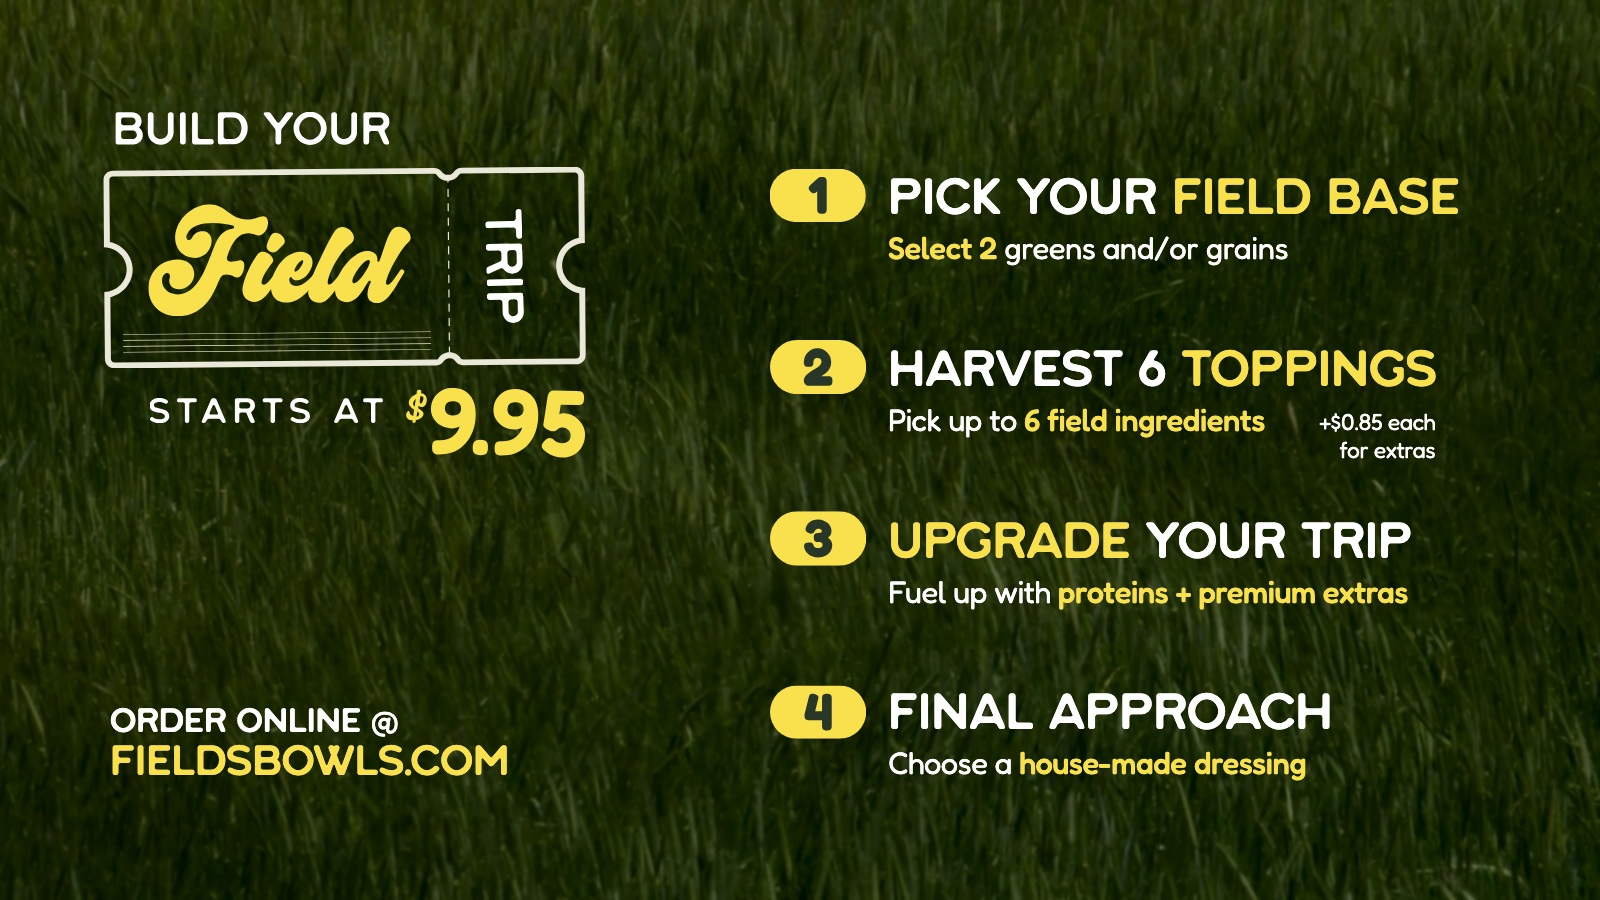
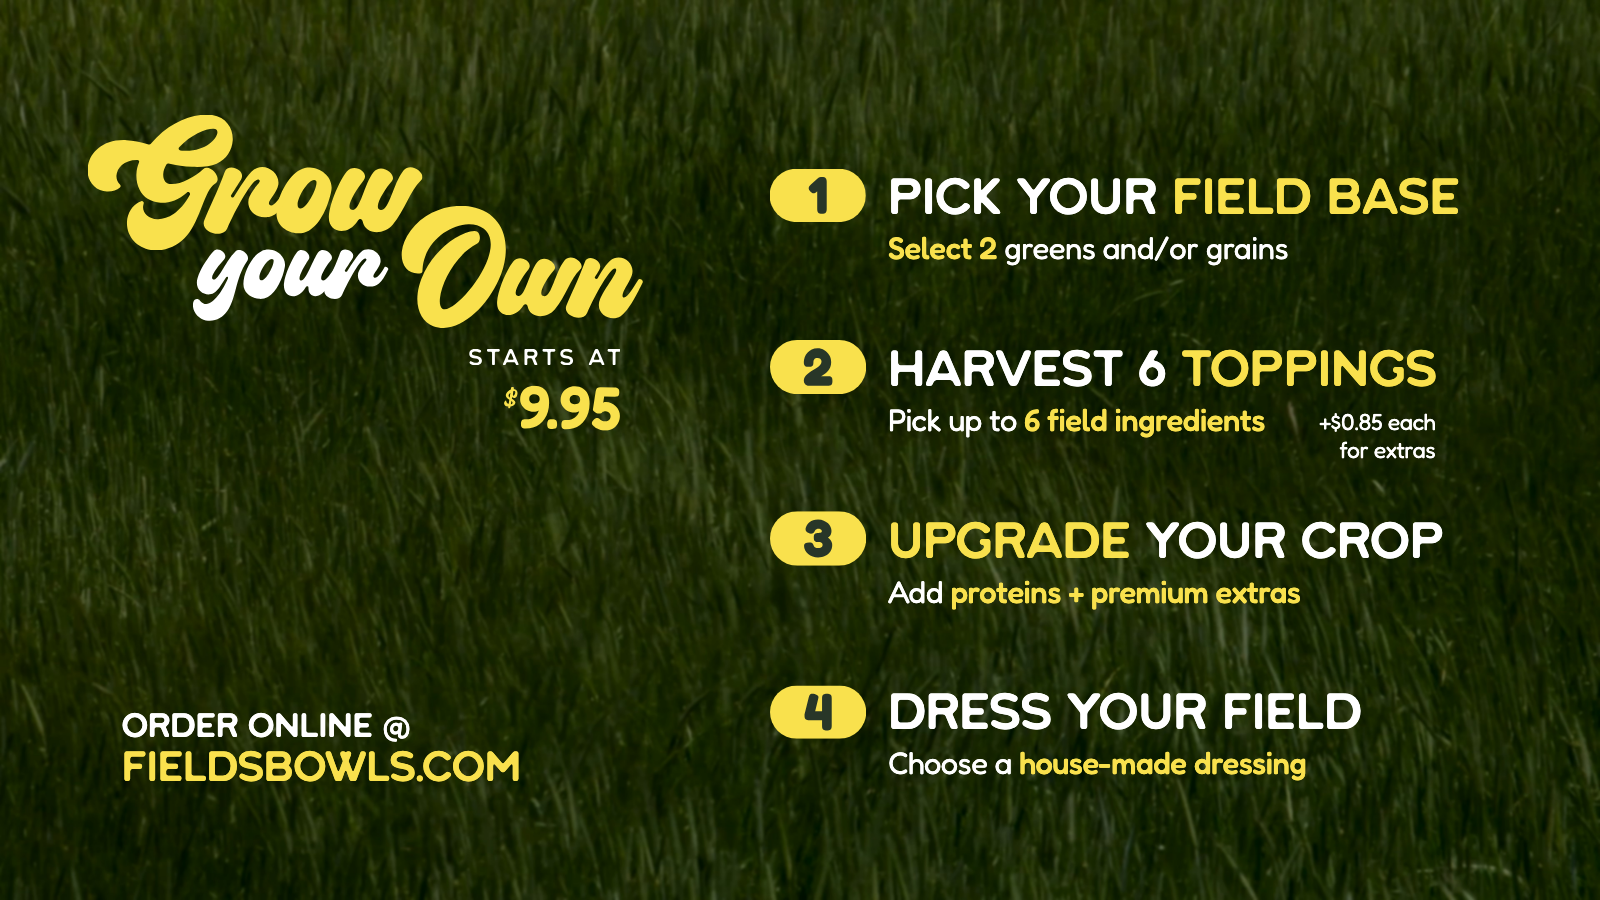
Board 2 (FINAL - 2) from Figma: Grow your Own lettering and price, new step copy
Replaces the Field Trip ticket with the Grow your Own lettering, moves the
order-online lines, and updates steps 3 and 4 (Upgrade your crop, Dress your
field). Caption is now Grow Your Own.

diff --git a/design/Grass-Board2.dc.html b/design/Grass-Board2.dc.html
@@ -2,7 +2,7 @@
 <html lang="en">
 <head>
 <meta charset="utf-8">
-<title>Option D Board 2: Build your Field Trip</title>
+<title>Option D Board 2: Grow your Own</title>
 <script src="./support.js"></script>
 </head>
 <body>
@@ -17,14 +17,12 @@ body{margin:0;font-family:'Fredoka', sans-serif;background:#1d2716;color:#ffffff
 </style>
 </helmet>
 <div class="grass-bg" style="width: 3840px; height: 2160px; box-sizing: border-box; background-color: #1d2716; color: #ffffff; font-family: 'Fredoka', sans-serif; overflow: hidden; position: relative">
-<img src="/_blob/ad2eea42bba14e00472c7403c6463616" alt="" style="position: absolute; left: 248.064px; top: 399.6px; width: 1157.76px; height: 484.272px; display: block">
-<img src="/_blob/f02b4ea816d54873db78d45e4488629b" alt="Field" style="position: absolute; left: 355.99px; top: 490.17px; width: 629.743px; height: 268.363px; display: block">
-<img src="/_blob/587461ed257aa05cd79bab6765e1a9d8" alt="Trip" style="position: absolute; left: 1074.19px; top: 594.63px; width: 273.378px; height: 88.431px; display: block; transform: rotate(88.74deg)">
-<img src="/_blob/0f0816a386956edaccd3ffdc8aecad56" alt="Build your" style="position: absolute; left: 276.77px; top: 268.46px; width: 658.278px; height: 79.506px; display: block">
-<img src="/_blob/565145a8a62dd73ff3b18d2b26606d24" alt="Starts at" style="position: absolute; left: 358.51px; top: 954.59px; width: 560.67px; height: 61.159px; display: block">
-<img src="/_blob/b86f20790ff874b445d3f4f93204793a" alt="$9.95" style="position: absolute; left: 960.81px; top: 930.29px; width: 445.019px; height: 168.861px; display: block">
-<p style="position: absolute; left: 264px; top: 1663px; margin: 0; font-family: 'Heart of the Land', 'Fredoka', sans-serif; font-weight: 400; font-size: 80px; line-height: 123.6px; white-space: nowrap">ORDER ONLINE @</p>
-<p style="position: absolute; left: 264px; top: 1760px; margin: 0; font-family: 'Heart of the Land', 'Fredoka', sans-serif; font-weight: 400; font-size: 100px; line-height: 123.6px; white-space: nowrap"><span style="color: #f9e14d">FIELDSBOWLS.COM</span></p>
+<img src="/_blob/8c29fd317d8ef291630e8202bd968c62" alt="Grow" style="position: absolute; left: 210px; top: 275px; width: 804px; height: 325.732px; display: block">
+<img src="/_blob/1faa17dbedd032f0236d6f7cf1808667" alt="your Own" style="position: absolute; left: 463px; top: 494px; width: 1080px; height: 293px; display: block">
+<img src="/_blob/4a434b974d175caee23269bc4049669e" alt="Starts at" style="position: absolute; left: 1126px; top: 837px; width: 362.957px; height: 39.592px; display: block">
+<img src="/_blob/0575dd7d02b41bafc639db7ec6e4b3ba" alt="$9.95" style="position: absolute; left: 1201px; top: 925px; width: 288.089px; height: 109.314px; display: block">
+<p style="position: absolute; left: 292px; top: 1676px; margin: 0; font-family: 'Heart of the Land', 'Fredoka', sans-serif; font-weight: 400; font-size: 80px; line-height: 123.6px; white-space: nowrap">ORDER ONLINE @</p>
+<p style="position: absolute; left: 292px; top: 1773px; margin: 0; font-family: 'Heart of the Land', 'Fredoka', sans-serif; font-weight: 400; font-size: 100px; line-height: 123.6px; white-space: nowrap"><span style="color: #f9e14d">FIELDSBOWLS.COM</span></p>
 <img src="/_blob/e8e5569f9b638941f0e20ddb220637fa" alt="" style="position: absolute; left: 1754.88px; top: 1019.09px; width: 3.072px; height: 1.08px; display: block; transform: scaleY(-1)">
 <img src="/_blob/043eb4097ea4fbbed468e78b36cc57d0" alt="1" style="position: absolute; left: 1847.03px; top: 405px; width: 231px; height: 128.452px; display: block">
 <p style="position: absolute; left: 2131.03px; top: 405px; margin: 0; font-family: 'Heart of the Land', 'Fredoka', sans-serif; font-weight: 400; font-size: 120px; line-height: 123.6px; white-space: nowrap">PICK YOUR <span style="color: #f9e14d">FIELD BASE</span></p>
@@ -33,10 +31,10 @@ body{margin:0;font-family:'Fredoka', sans-serif;background:#1d2716;color:#ffffff
 <p style="position: absolute; left: 2131.03px; top: 817px; margin: 0; font-family: 'Heart of the Land', 'Fredoka', sans-serif; font-weight: 400; font-size: 120px; line-height: 123.6px; white-space: nowrap">HARVEST 6 <span style="color: #f9e14d">TOPPINGS</span></p>
 <p style="position: absolute; left: 2131.03px; top: 962px; margin: 0; font-size: 74px; font-weight: 400; line-height: normal; letter-spacing: -1px; white-space: nowrap; font-feature-settings: 'dlig' 1">Pick up to<span style="font-weight: 500; color: #f9e14d"> 6 field ingredients</span></p>
 <img src="/_blob/1930219e5e916519dba999c597027e06" alt="3" style="position: absolute; left: 1848.03px; top: 1227px; width: 231px; height: 130.972px; display: block">
-<p style="position: absolute; left: 2131.03px; top: 1229px; margin: 0; font-family: 'Heart of the Land', 'Fredoka', sans-serif; font-weight: 400; font-size: 120px; line-height: 123.6px; white-space: nowrap"><span style="color: #f9e14d">UPGRADE</span> YOUR TRIP</p>
-<p style="position: absolute; left: 2131.03px; top: 1374px; margin: 0; font-size: 74px; font-weight: 400; line-height: normal; letter-spacing: -1px; white-space: nowrap; font-feature-settings: 'dlig' 1">Fuel up with <span style="font-weight: 500; color: #f9e14d">proteins + premium extras</span></p>
+<p style="position: absolute; left: 2131.03px; top: 1229px; margin: 0; font-family: 'Heart of the Land', 'Fredoka', sans-serif; font-weight: 400; font-size: 120px; line-height: 123.6px; white-space: nowrap"><span style="color: #f9e14d">UPGRADE</span> YOUR CROP</p>
+<p style="position: absolute; left: 2131.03px; top: 1374px; margin: 0; font-size: 74px; font-weight: 400; line-height: normal; letter-spacing: -1px; white-space: nowrap; font-feature-settings: 'dlig' 1">Add <span style="font-weight: 500; color: #f9e14d">proteins + premium extras</span></p>
 <img src="/_blob/82acaa3b98e91ade47c420b69f10c778" alt="4" style="position: absolute; left: 1848.03px; top: 1645px; width: 231px; height: 128.485px; display: block">
-<p style="position: absolute; left: 2131.03px; top: 1641px; margin: 0; font-family: 'Heart of the Land', 'Fredoka', sans-serif; font-weight: 400; font-size: 120px; line-height: 123.6px; white-space: nowrap">FINAL APPROACH</p>
+<p style="position: absolute; left: 2131.03px; top: 1641px; margin: 0; font-family: 'Heart of the Land', 'Fredoka', sans-serif; font-weight: 400; font-size: 120px; line-height: 123.6px; white-space: nowrap">DRESS YOUR FIELD</p>
 <p style="position: absolute; left: 2131.03px; top: 1786px; margin: 0; font-size: 74px; font-weight: 400; line-height: normal; letter-spacing: -1px; white-space: nowrap; font-feature-settings: 'dlig' 1">Choose a <span style="font-weight: 500; color: #f9e14d">house-made dressing</span></p>
 <p style="position: absolute; right: 395px; top: 979px; margin: 0; font-size: 55px; font-weight: 400; line-height: normal; letter-spacing: -1px; text-align: right; white-space: nowrap">+$0.85 each<br>for extras</p>
 </div>

diff --git a/assets/boards/versions.js b/assets/boards/versions.js
@@ -20,10 +20,10 @@ window.BOARD_VERSIONS = {
   "grass/beverages-text-screen.png": "44328a32e1",
   "grass/beverages-text.png": "d5b124bd26",
   "grass/beverages.png": "e0e4f5967c",
-  "grass/build-screen.png": "444687ba6b",
-  "grass/build-text-screen.png": "de6671fa16",
-  "grass/build-text.png": "e1a0ad6cc5",
-  "grass/build.png": "ab0440093d",
+  "grass/build-screen.png": "79883adddb",
+  "grass/build-text-screen.png": "533750a5b5",
+  "grass/build-text.png": "f014bffc46",
+  "grass/build.png": "b2778ea72a",
   "grass/motion-screen.mp4": "db861a3d13",
   "grass/motion.mp4": "dfedba1766",
   "grass/salads-screen.png": "2761da23b2",

diff --git a/index.html b/index.html
@@ -11,8 +11,8 @@
 <body class="page-scene">
 <main id="scene" class="scene" aria-label="Menu boards in store"></main>
 <p class="rotate-hint">Turn your phone sideways for a closer look</p>
-<script src="assets/boards/versions.js?v=eb1b62f806"></script>
-<script src="js/config.js?v=b71d61509e"></script>
+<script src="assets/boards/versions.js?v=2741485eea"></script>
+<script src="js/config.js?v=4d2562be3e"></script>
 <script src="js/common.js?v=c7d3fd3009"></script>
 <script src="js/scene.js?v=374e8dda85"></script>
 </body>

diff --git a/gallery.html b/gallery.html
@@ -16,8 +16,8 @@
   <nav aria-label="Colorways and boards"><ol id="toc" class="toc"></ol></nav>
 </aside>
 <main id="doc" class="doc"></main>
-<script src="assets/boards/versions.js?v=eb1b62f806"></script>
-<script src="js/config.js?v=b71d61509e"></script>
+<script src="assets/boards/versions.js?v=2741485eea"></script>
+<script src="js/config.js?v=4d2562be3e"></script>
 <script src="js/common.js?v=c7d3fd3009"></script>
 <script src="js/gallery.js?v=515b53a47c"></script>
 </body>

diff --git a/js/config.js b/js/config.js
@@ -35,7 +35,7 @@ window.MENU_CONFIG = {
   // `short` labels the board's picker in Mix & Match.
   boards: [
     { id: 'salads', title: 'House Bowls', short: 'Salads' },
-    { id: 'build', title: 'Build Your Field Trip', short: 'BYO' },
+    { id: 'build', title: 'Grow Your Own', short: 'BYO' },
     { id: 'beverages', title: 'Ingredients, Proteins + Refreshers', short: 'Beverages' },
   ],
 

diff --git a/tools/build-grass-latest.py b/tools/build-grass-latest.py
@@ -1,5 +1,5 @@
 # Builds the Grass artboards from Figma's "LATEST BOARDS" page. The live boards (Grass-Board1/2/3.dc.html) are
-# frames "FINAL - 1" (122:810, House Bowls), "FINAL - 2" (122:876, Field Trip) and
+# frames "FINAL - 1" (122:810, House Bowls), "FINAL - 2" (122:876, Grow your Own) and
 # "FINAL - 3" (122:1217, ingredients, proteins and refreshers). Archived Layout 2 (Layout2-Board1/2/3.dc.html)
 # is the earlier second row, frames 3, 1, 2.
 # Positions and sizes are Figma's.
@@ -26,8 +26,8 @@ C = dict(name='Option D', bg=FOREST if FLAT else '#1d2716', ink=WHITE, acc=SUN, 
          logo=None, **({} if FLAT else {'photo': PHOTO}))
 SVG = {  # canvas blob ids; design/manifest.json maps them to design/assets/field-trip/<name>.svg
     'fields-gathered': 'd4c09801249a440e80340860ae861576', 'divider': '1fe0f9f8527c0305a1e2ffc981ed1a79', 'vegetarian': 'd2dec4c0f276c9386569d90015b3cd96',
-    'ticket-4': 'ad2eea42bba14e00472c7403c6463616', 'field-4': 'f02b4ea816d54873db78d45e4488629b', 'trip-4': '587461ed257aa05cd79bab6765e1a9d8',
-    'build-your-4': '0f0816a386956edaccd3ffdc8aecad56', 'starts-at-4': '565145a8a62dd73ff3b18d2b26606d24', 'price-4': 'b86f20790ff874b445d3f4f93204793a',
+    'grow': '8c29fd317d8ef291630e8202bd968c62', 'your-own': '1faa17dbedd032f0236d6f7cf1808667',
+    'starts-at-5': '4a434b974d175caee23269bc4049669e', 'price-5': '0575dd7d02b41bafc639db7ec6e4b3ba',
     'fields-gathered-stacked': '10d4524056454e5605159847b99ab544', 'price-3': '8fc42b18a74e921aa0aa763704b07bf7', 'path83': 'e8e5569f9b638941f0e20ddb220637fa', 'step1': '043eb4097ea4fbbed468e78b36cc57d0',
     'step2': 'b92ff74f402cb85a646d44c6ceefe775', 'step3': '1930219e5e916519dba999c597027e06',
     'step4': '82acaa3b98e91ade47c420b69f10c778', 'pick-your-field-2': '8647c1e19b696e6485f31781ef9752ea',
@@ -79,19 +79,16 @@ def signature():
           f'letter-spacing: -1px; color: {SUN}; white-space: nowrap; font-feature-settings: \'dlig\' 1">All bowls can be made vegetarian upon request</p>\n')
     return b
 
-# ------------------------------------------------------------------ Board 2: Build your Field Trip (FINAL - 2)
+# ------------------------------------------------------------------ Board 2: Grow your Own (FINAL - 2)
 def build():
-    x, y, w, h = inset(18.5, 63.39, 59.08, 6.46)
-    b = svg('ticket-4', x, y, w, h)
-    b += svg('field-4', 355.99, 490.17, 629.743, 268.363, alt='Field')
-    b += svg('trip-4', 1163.68 + (94.404 - 273.378) / 2, 501.22 + (275.252 - 88.431) / 2, 273.378, 88.431, alt='Trip', transform='rotate(88.74deg)')
     hotl = lambda x, y, size, html, extra='': (f'<p style="position: absolute; left: {x}px; top: {y}px; margin: 0; {HOTL}; font-size: {size}px; '
                                               f'line-height: 123.6px;{extra} white-space: nowrap">{html}</p>\n')
-    b += svg('build-your-4', 276.77, 268.46, 658.278, 79.506, alt='Build your')
-    b += svg('starts-at-4', 358.51, 954.59, 560.67, 61.159, alt='Starts at')
-    b += svg('price-4', 960.81, 930.29, 445.019, 168.861, alt='$9.95')
-    b += hotl(264, 1663, 80, 'ORDER ONLINE @')
-    b += hotl(264, 1760, 100, f'<span style="color: {SUN}">FIELDSBOWLS.COM</span>')
+    b = svg('grow', 210, 275, 804, 325.732, alt='Grow')
+    b += svg('your-own', 463, 494, 1080, 293, alt='your Own')
+    b += svg('starts-at-5', 1126, 837, 362.957, 39.592, alt='Starts at')
+    b += svg('price-5', 1201, 925, 288.089, 109.314, alt='$9.95')
+    b += hotl(292, 1675 + 1, 80, 'ORDER ONLINE @')
+    b += hotl(292, 1772 + 1, 100, f'<span style="color: {SUN}">FIELDSBOWLS.COM</span>')
     x, y, w, h = inset(47.18, 54.22, 52.77, 45.7)  # the stray 3x1 px path, as in Figma
     b += svg('path83', x, y, w, h, transform='scaleY(-1)')
     # Four steps: a number pill, a Heart of the Land heading, and a Fredoka line with the key words
@@ -102,8 +99,8 @@ def build():
     for key, px, py, ph, head, hy, text, ty in [
         ('step1', 1847.03, 405, 128.452, f'PICK YOUR <span style="color: {SUN}">FIELD BASE</span>', 404, yel('Select 2') + ' greens and/or grains', 550),
         ('step2', 1848.03, 816, 129.712, f'HARVEST 6 <span style="color: {SUN}">TOPPINGS</span>', 816, 'Pick up to' + yel(' 6 field ingredients'), 962),
-        ('step3', 1848.03, 1227, 130.972, f'<span style="color: {SUN}">UPGRADE</span> YOUR TRIP', 1228, 'Fuel up with ' + yel('proteins + premium extras'), 1374),
-        ('step4', 1848.03, 1645, 128.485, 'FINAL APPROACH', 1640, 'Choose a ' + yel('house-made dressing'), 1786),
+        ('step3', 1848.03, 1227, 130.972, f'<span style="color: {SUN}">UPGRADE</span> YOUR CROP', 1228, 'Add ' + yel('proteins + premium extras'), 1374),
+        ('step4', 1848.03, 1645, 128.485, 'DRESS YOUR FIELD', 1640, 'Choose a ' + yel('house-made dressing'), 1786),
     ]:
         b += svg(key, px, py, 231, ph, alt=key[-1])
         b += hotl(2131.03, hy + 1, 120, head)  # Figma's glyphs sit 1px lower
@@ -244,7 +241,7 @@ def clean(html):  # the shell adds a logo when there is one; these boards have n
     return '\n'.join(l for l in html.split('\n') if '/_blob/None' not in l)
 
 for name, board, title, fn in [('Grass-Board1.dc.html', 'salads', 'Board 1: House Bowls', signature),
-                               ('Grass-Board2.dc.html', 'build', 'Board 2: Build your Field Trip', build),
+                               ('Grass-Board2.dc.html', 'build', 'Board 2: Grow your Own', build),
                                ('Grass-Board3.dc.html', 'beverages', 'Board 3: Ingredients, Proteins + Refreshers', beverages)]:
     html = clean(page(C, board, f'Option D {title}', fn()))
     open(os.path.join(out, name), 'w').write(html)
